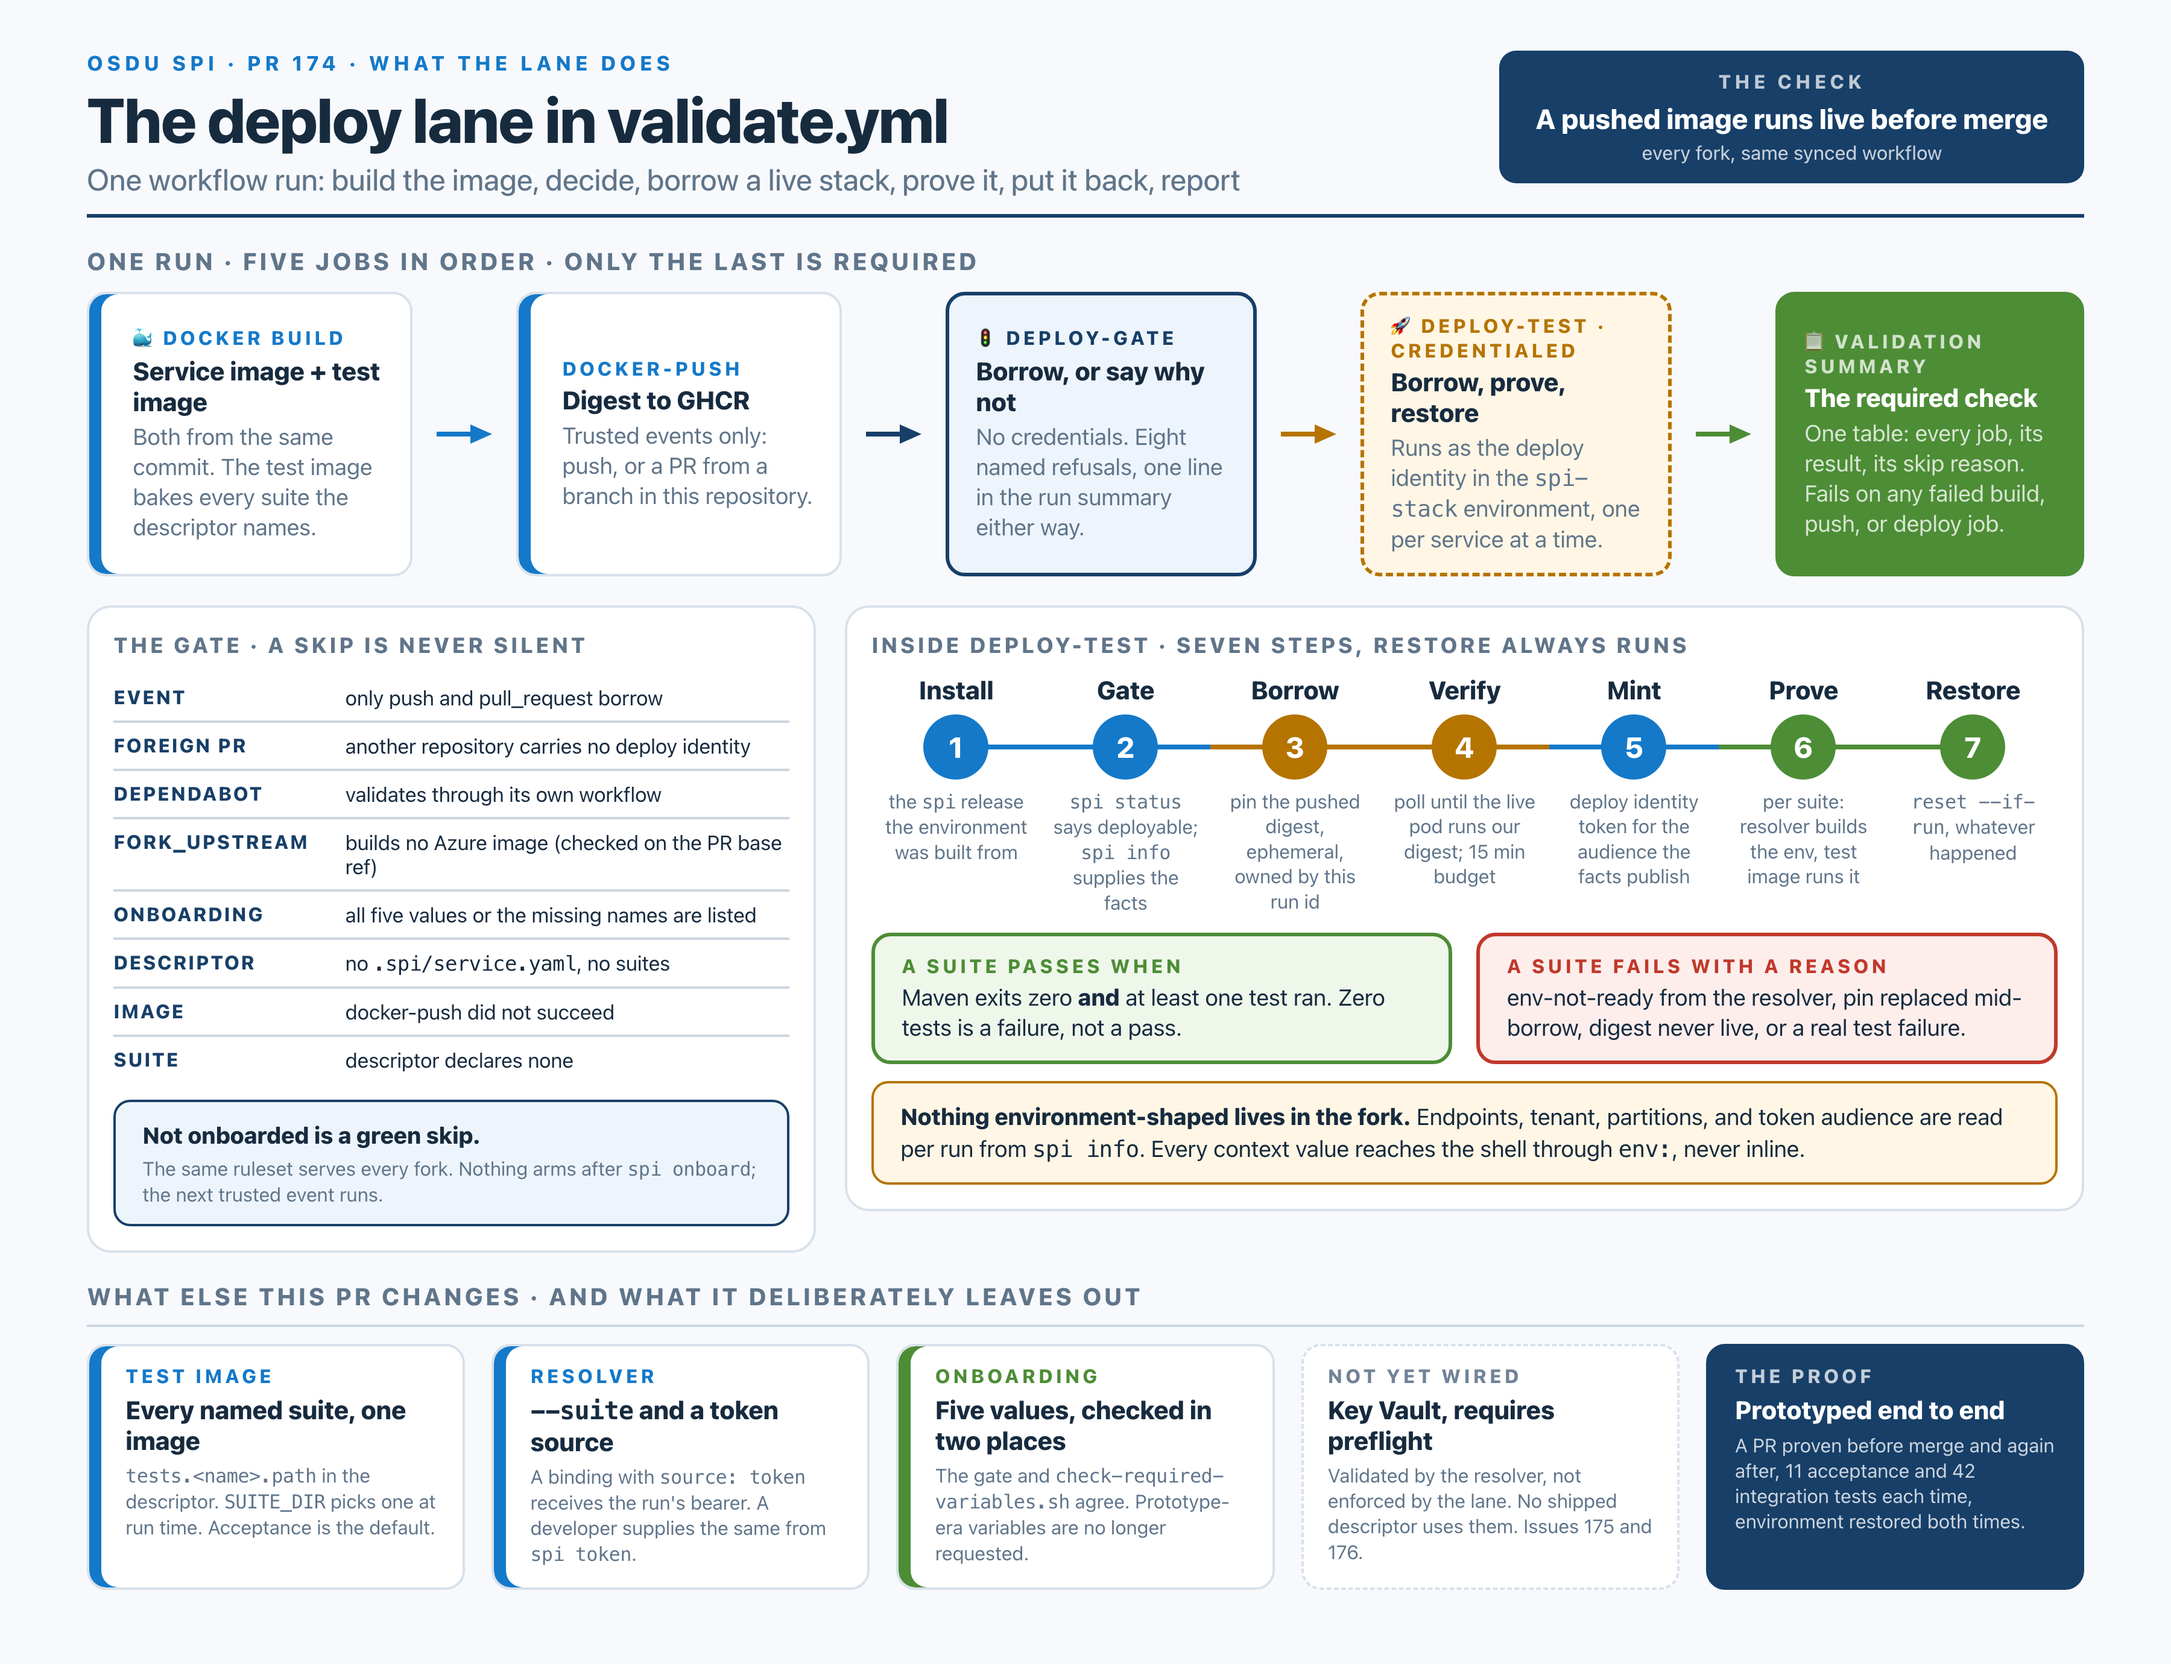
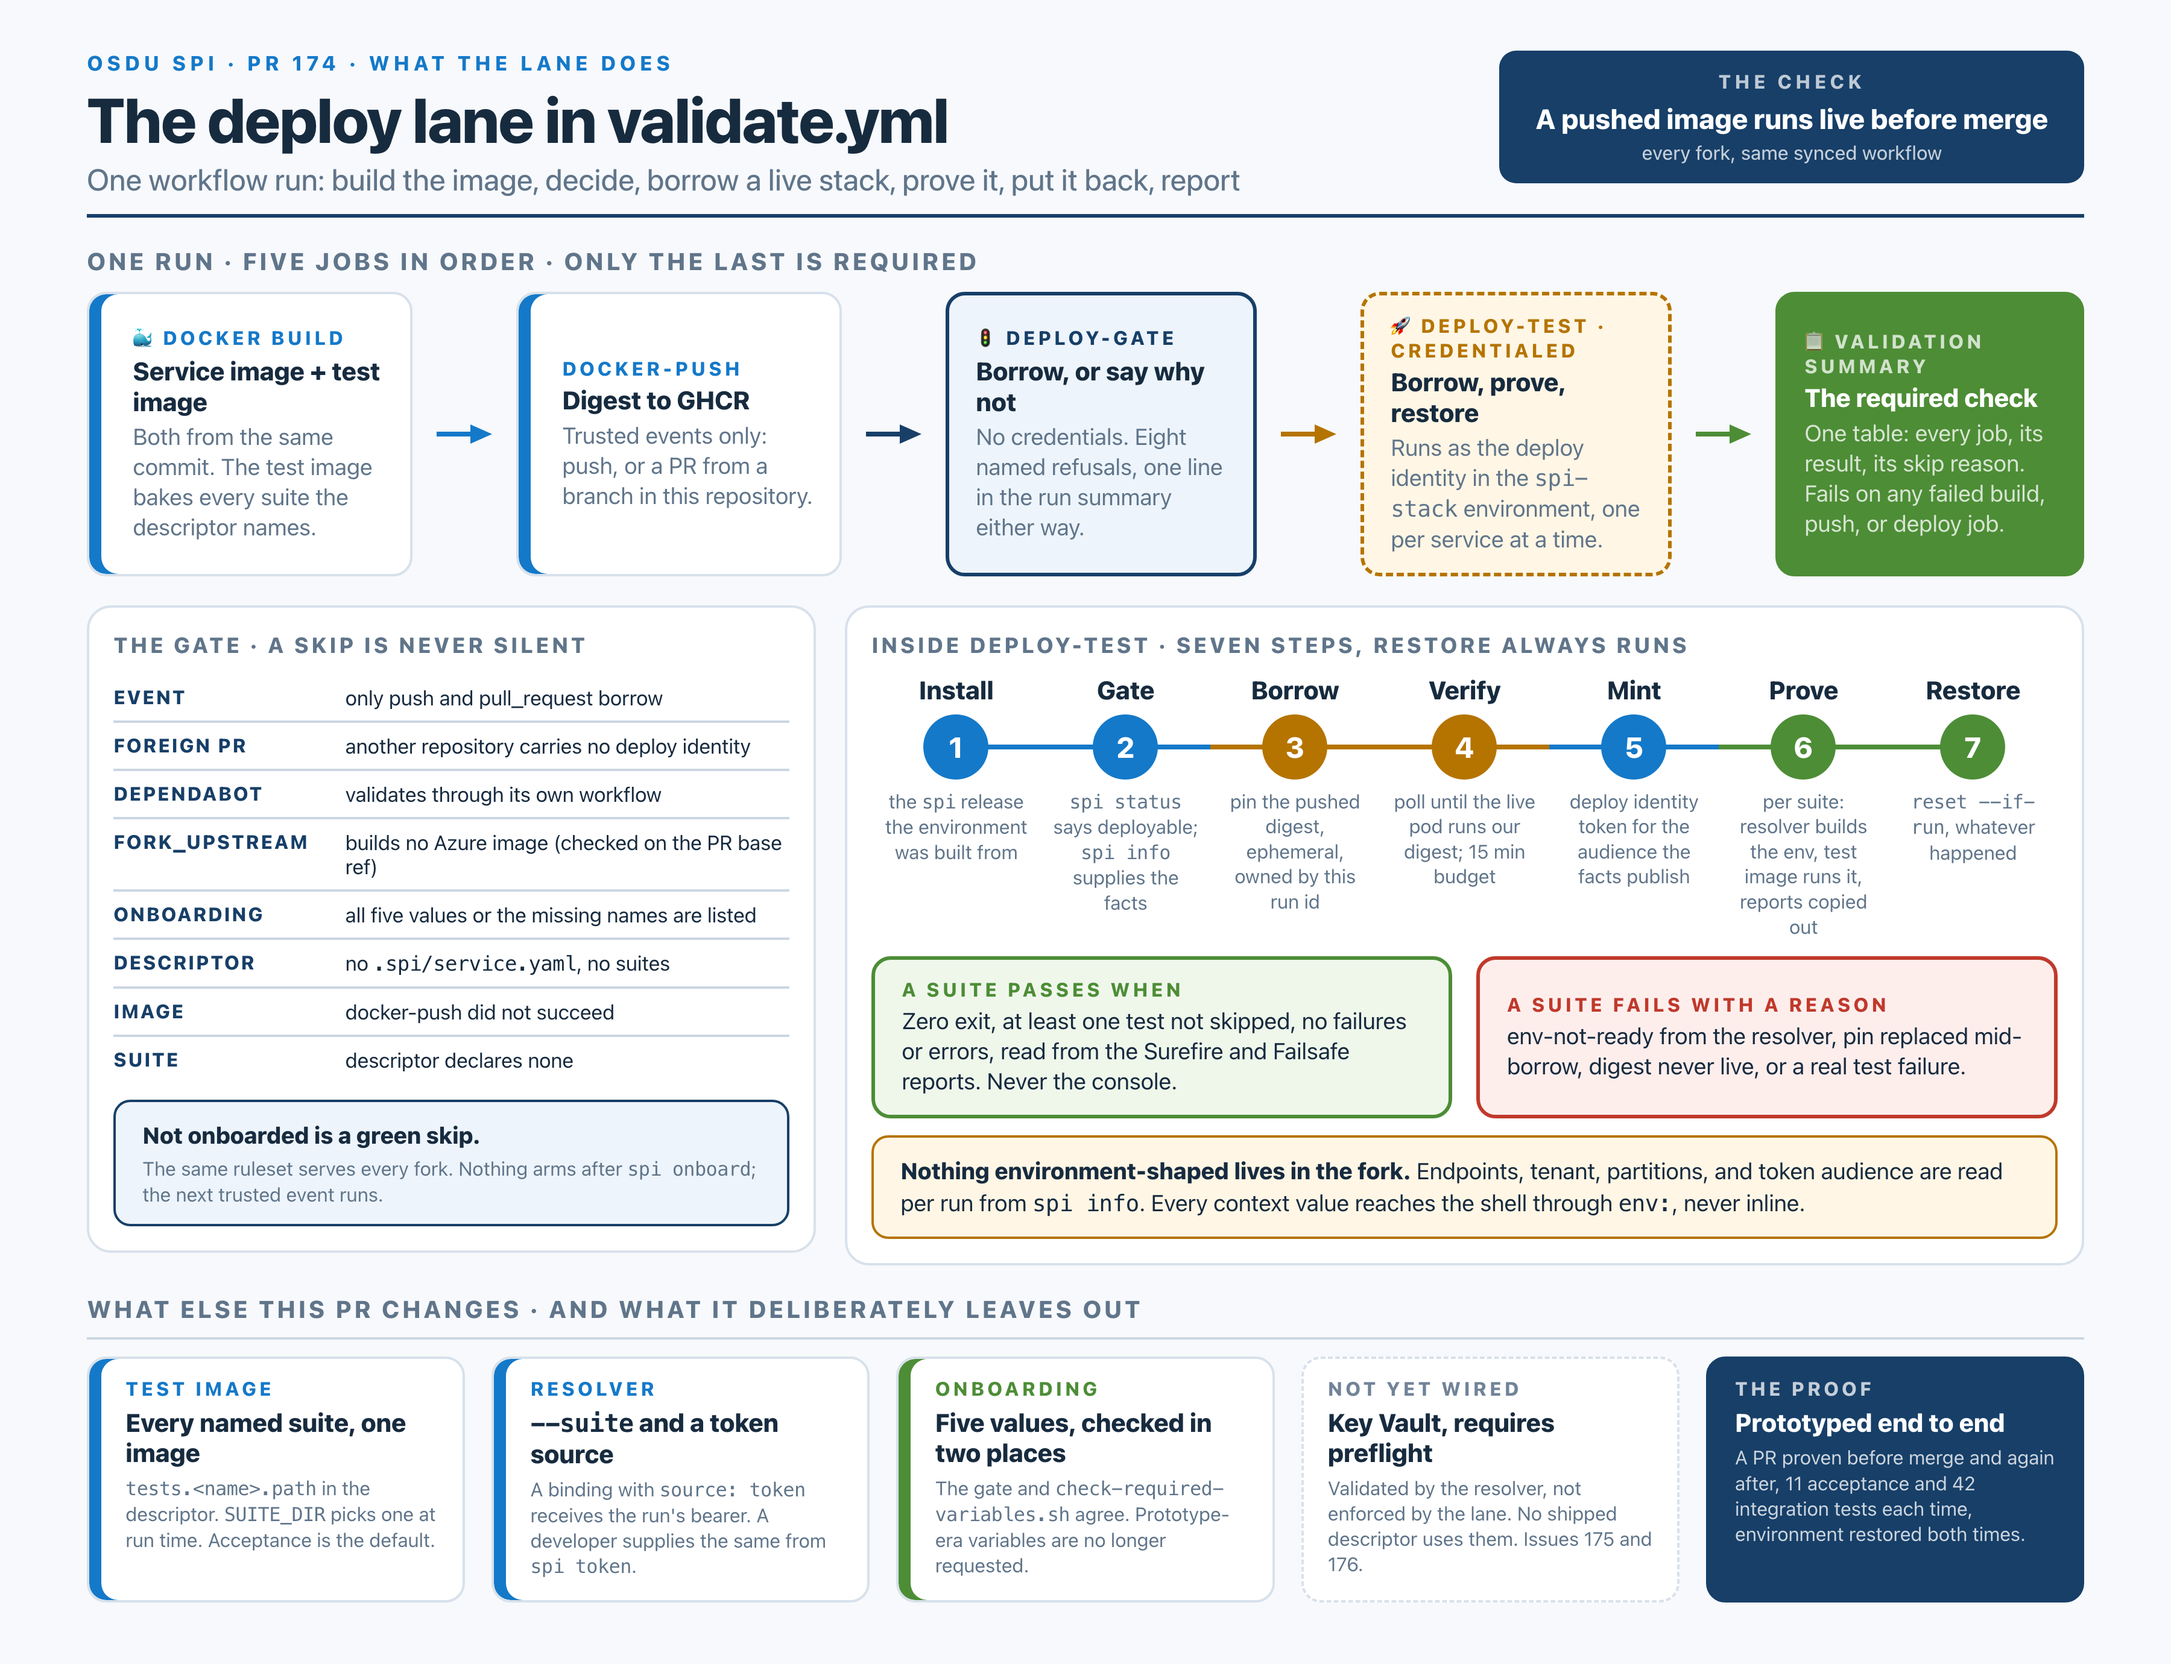
feat(ci): decide suite verdicts from surefire and failsafe reports
Add suite-verdict.py and copy reports out of a named container instead of
grepping the Maven log; cover the verdict cases in the image tests

Changed region(s): [[0.0311, 0.4986, 0.9644, 0.9659], [0.0311, 0.9348, 0.0622, 0.9659]]

diff --git a/.github/actions/acceptance-image/suite-verdict.py b/.github/actions/acceptance-image/suite-verdict.py
@@ -1,0 +1,64 @@
+#!/usr/bin/env python3
+"""Decide one suite's verdict from its Surefire and Failsafe reports.
+
+Usage: suite-verdict.py --exit-code N --reports DIR
+
+Prints one line for the run summary and exits 0 for pass, 1 for fail. The
+console is not consulted: -q hides the summary lines and
+-Dmaven.test.failure.ignore turns a failing suite into a zero exit, so only
+the report XML says what ran. A pass needs a zero exit, at least one test
+that was not skipped, and no failures or errors.
+"""
+
+import argparse
+import pathlib
+import sys
+import xml.etree.ElementTree as ET
+
+REPORT_DIRS = ("surefire-reports", "failsafe-reports")
+
+
+def count(reports):
+    totals = {"tests": 0, "skipped": 0, "failures": 0, "errors": 0}
+    files = [p for p in pathlib.Path(reports).rglob("TEST-*.xml")
+             if p.parent.name in REPORT_DIRS]
+    for path in files:
+        try:
+            root = ET.parse(path).getroot()
+        except ET.ParseError:
+            return None, f"unreadable report {path.name}"
+        for key in totals:
+            totals[key] += int(root.get(key, 0))
+    return totals, ""
+
+
+def main():
+    parser = argparse.ArgumentParser()
+    parser.add_argument("--exit-code", type=int, required=True)
+    parser.add_argument("--reports", required=True)
+    args = parser.parse_args()
+
+    totals, problem = count(args.reports)
+    if problem:
+        print(f"FAIL: {problem}")
+        return 1
+    ran = totals["tests"] - totals["skipped"]
+    broken = totals["failures"] + totals["errors"]
+    if args.exit_code == 124:
+        print(f"FAIL: timed out after {ran} tests")
+        return 1
+    if args.exit_code != 0:
+        print(f"FAIL: exit {args.exit_code}, {ran} tests ran, {broken} failed or errored")
+        return 1
+    if broken:
+        print(f"FAIL: {broken} of {ran} tests failed or errored despite a zero exit")
+        return 1
+    if ran == 0:
+        print(f"FAIL: no tests executed ({totals['skipped']} skipped)")
+        return 1
+    print(f"pass: {ran} tests, {totals['skipped']} skipped")
+    return 0
+
+
+if __name__ == "__main__":
+    sys.exit(main())

diff --git a/doc/src/adr/041-borrow-prove-restore-lane.md b/doc/src/adr/041-borrow-prove-restore-lane.md
@@ -30,7 +30,7 @@ The lane installs the latest `spi` release to reach the environment, then reads 
 
 ### One image carries every suite
 
-`tests` in the descriptor is a map of named suites of one shape; `acceptance` is required and is the run-time default. The acceptance image bakes every declared suite path, with each suite's dependencies prewarmed and a multi-module suite installed first so its sibling modules resolve. `SUITE_DIR` selects the suite at run time, and the resolver's `--suite` selects which bindings to resolve. The lane runs one `docker run` per suite under the suite's own timeout and fails if any suite fails.
+`tests` in the descriptor is a map of named suites of one shape; `acceptance` is required and is the run-time default. The acceptance image bakes every declared suite path, with each suite's dependencies prewarmed and a multi-module suite installed first so its sibling modules resolve. `SUITE_DIR` selects the suite at run time, and the resolver's `--suite` selects which bindings to resolve. The lane runs one `docker run` per suite under the suite's own timeout and fails if any suite fails. A suite's verdict comes from the Surefire and Failsafe reports copied out of the container, never from the exit code or console alone: it passes only with a zero exit, at least one test that was not skipped, and no failures or errors.
 
 ### The summary is the required check
 

diff --git a/.github/actions/acceptance-image/README.md b/.github/actions/acceptance-image/README.md
@@ -44,6 +44,17 @@ exit 2 instead of skipping. The default is a convention this action guesses at;
 a descriptor path is an assertion the fork made, and a typo in it must never
 read as "this fork has no acceptance suite".
 
+## Suite verdict
+
+`suite-verdict.py` decides whether one suite run passed. The deploy lane copies
+the suite directory out of the container after `docker run` returns and hands
+the script the exit code and that directory. It reads every `TEST-*.xml` under a
+`surefire-reports` or `failsafe-reports` directory, at any depth, so a
+multi-module suite counts its submodules. A pass needs a zero exit, at least one
+test that was not skipped, and no failures or errors. The console is never
+consulted: `-q` hides Maven's summary lines and `-Dmaven.test.failure.ignore`
+turns a failing suite into a zero exit.
+
 Each suite resolves its own dependency graph. A suite that is a Maven reactor
 (the upstream `testing/` tree, whose provider module depends on a sibling core
 module) is installed without tests first so the sibling resolves, then warmed
